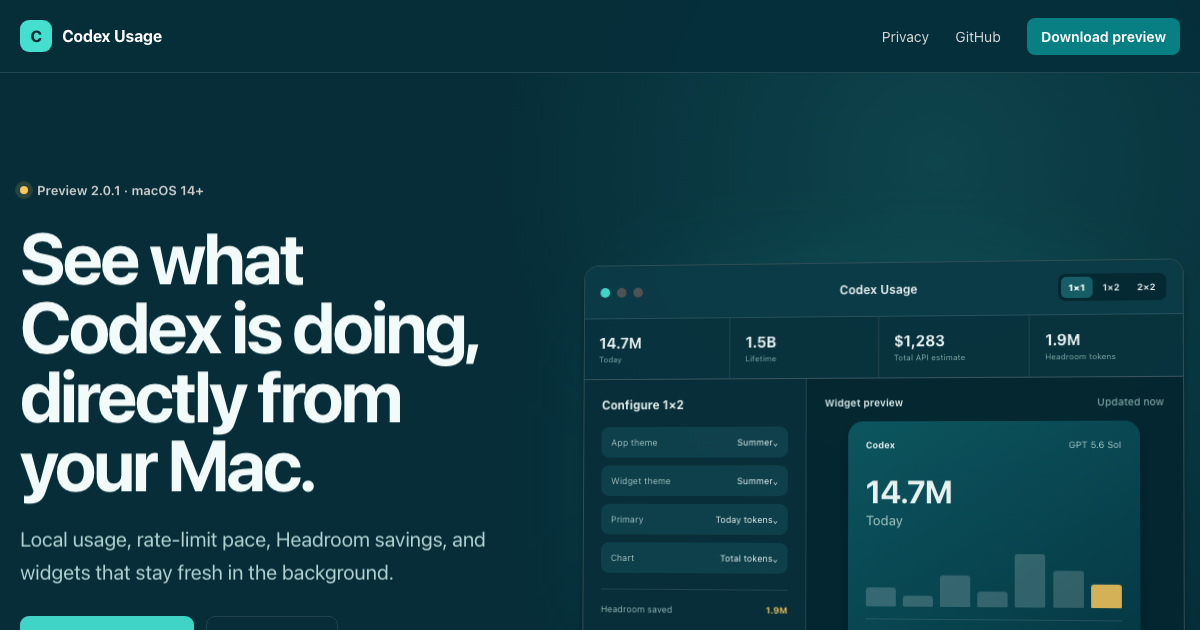
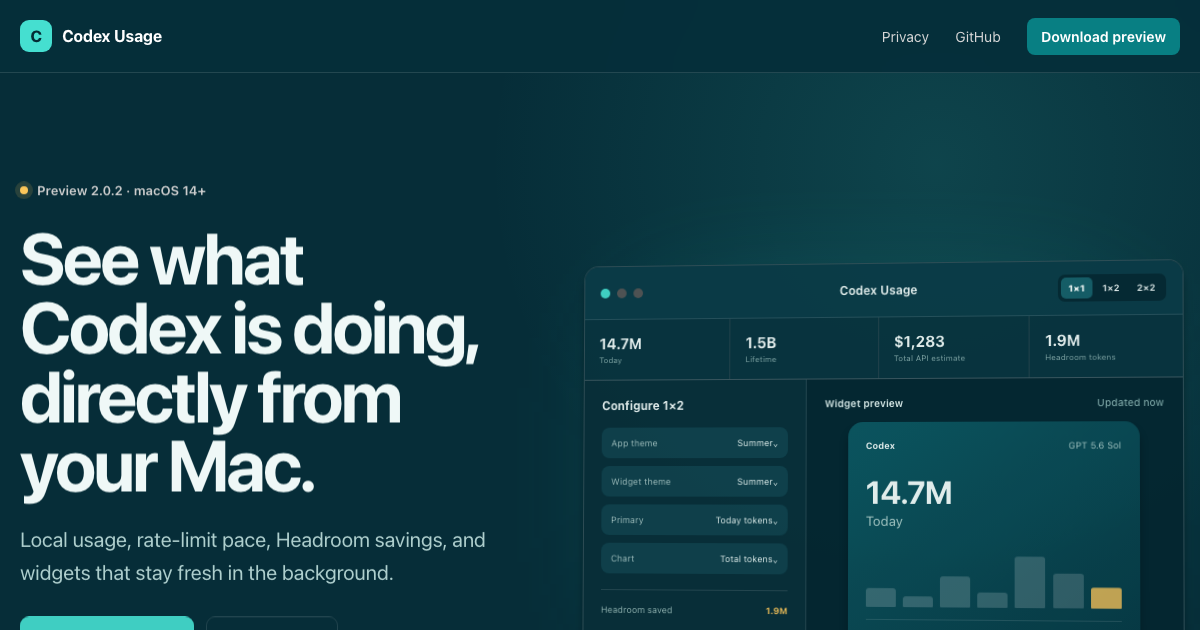
release: improve widget typography for 2.0.2

diff --git a/Shared/WidgetComponents.swift b/Shared/WidgetComponents.swift
@@ -1,5 +1,14 @@
 import SwiftUI
 
+enum WidgetTypeScale {
+    static let caption: CGFloat = 10
+    static let label: CGFloat = 11
+    static let body: CGFloat = 12
+    static let value: CGFloat = 14
+    static let heroCompact: CGFloat = 30
+    static let hero: CGFloat = 36
+}
+
 struct WidgetLabeledValue: Equatable, Sendable {
     var label: String
     var value: String
@@ -64,13 +73,17 @@ struct WidgetHero: View {
     var body: some View {
         VStack(alignment: .leading, spacing: compact ? 2 : 4) {
             Text(content.heroValue)
-                .font(.system(size: compact ? 24 : 31, weight: .semibold, design: .rounded))
+                .font(.system(
+                    size: compact ? WidgetTypeScale.heroCompact : WidgetTypeScale.hero,
+                    weight: .semibold,
+                    design: .rounded
+                ))
                 .monospacedDigit()
                 .foregroundStyle(palette.primary)
                 .lineLimit(1)
-                .minimumScaleFactor(0.55)
+                .minimumScaleFactor(0.7)
             Text(content.heroLabel)
-                .font(.system(size: compact ? 9 : 10, weight: .medium))
+                .font(.system(size: compact ? WidgetTypeScale.label : WidgetTypeScale.body, weight: .medium))
                 .foregroundStyle(palette.secondary)
                 .lineLimit(2)
         }
@@ -82,12 +95,20 @@ struct WidgetHero: View {
 struct WidgetFreshnessLabel: View {
     var freshness: WidgetFreshness
     var palette: WidgetStylePalette
+    var compact = false
 
     var body: some View {
-        Label(freshness.label, systemImage: freshness.symbol)
-            .font(.system(size: 8, weight: .semibold))
+        Group {
+            if compact {
+                Image(systemName: freshness.symbol)
+                    .accessibilityLabel(freshness.label)
+            } else {
+                Label(freshness.label, systemImage: freshness.symbol)
+                    .labelStyle(.titleAndIcon)
+            }
+        }
+            .font(.system(size: WidgetTypeScale.caption, weight: .semibold))
             .foregroundStyle(freshness == .fresh ? palette.accent : palette.secondary)
-            .labelStyle(.titleAndIcon)
     }
 }
 
@@ -129,7 +150,7 @@ struct WidgetGaugeRing: View {
                 .stroke(palette.accent, style: StrokeStyle(lineWidth: 7, lineCap: .round))
                 .rotationEffect(.degrees(-90))
             Text(progress, format: .percent.precision(.fractionLength(0)))
-                .font(.system(size: 12, weight: .bold, design: .rounded))
+                .font(.system(size: WidgetTypeScale.value, weight: .bold, design: .rounded))
                 .monospacedDigit()
         }
         .accessibilityElement()
@@ -151,12 +172,12 @@ struct WidgetValueGrid: View {
             ForEach(Array(values.enumerated()), id: \.offset) { _, item in
                 VStack(alignment: .leading, spacing: 1) {
                     Text(item.value)
-                        .font(.system(size: 12, weight: .semibold, design: .rounded))
+                        .font(.system(size: WidgetTypeScale.value, weight: .semibold, design: .rounded))
                         .monospacedDigit()
                         .lineLimit(1)
-                        .minimumScaleFactor(0.65)
+                        .minimumScaleFactor(0.75)
                     Text(item.label)
-                        .font(.system(size: 8, weight: .medium))
+                        .font(.system(size: WidgetTypeScale.caption, weight: .medium))
                         .foregroundStyle(palette.secondary)
                         .lineLimit(1)
                 }

diff --git a/Shared/WidgetFamilyViews.swift b/Shared/WidgetFamilyViews.swift
@@ -256,20 +256,20 @@ struct CodexWidgetFamilyView: View {
 private struct WidgetFamilyHeader: View {
     var content: WidgetSemanticContent
     var palette: WidgetStylePalette
+    var compact = false
 
     var body: some View {
         HStack(spacing: 5) {
             Image(systemName: "sun.horizon.fill")
-                .font(.system(size: 8, weight: .bold))
+                .font(.system(size: WidgetTypeScale.caption, weight: .bold))
                 .foregroundStyle(palette.accent)
                 .accessibilityHidden(true)
-            Text(content.eyebrow.uppercased())
-                .font(.system(size: 9, weight: .bold))
-                .tracking(0.5)
+            Text(content.eyebrow)
+                .font(.system(size: WidgetTypeScale.label, weight: .semibold))
                 .foregroundStyle(palette.secondary)
                 .lineLimit(1)
             Spacer(minLength: 4)
-            WidgetFreshnessLabel(freshness: content.freshness, palette: palette)
+            WidgetFreshnessLabel(freshness: content.freshness, palette: palette, compact: compact)
         }
     }
 }
@@ -281,7 +281,7 @@ private struct MetricFamilyLayout: View {
 
     var body: some View {
         VStack(alignment: .leading, spacing: size == .small ? 7 : 9) {
-            WidgetFamilyHeader(content: content, palette: palette)
+            WidgetFamilyHeader(content: content, palette: palette, compact: size == .small)
             if size == .medium {
                 HStack(alignment: .bottom, spacing: 14) {
                     WidgetHero(content: content, palette: palette, compact: true)
@@ -317,7 +317,7 @@ private struct LimitsFamilyView: View {
 
     var body: some View {
         VStack(alignment: .leading, spacing: 8) {
-            WidgetFamilyHeader(content: content, palette: palette)
+            WidgetFamilyHeader(content: content, palette: palette, compact: size == .small)
             HStack(spacing: 12) {
                 WidgetGaugeRing(progress: progress / 100, palette: palette)
                     .frame(width: size == .small ? 66 : 82, height: size == .small ? 66 : 82)

diff --git a/docs/index.html b/docs/index.html
@@ -35,7 +35,7 @@
   <main id="main">
     <section class="hero" id="top">
       <div class="hero-copy">
-        <p class="release-note"><span></span> Preview 2.0.1 · macOS 14+</p>
+        <p class="release-note"><span></span> Preview 2.0.2 · macOS 14+</p>
         <h1>See what Codex is doing, directly from your Mac.</h1>
         <p class="hero-detail">Local usage, rate-limit pace, Headroom savings, and widgets that stay fresh in the background.</p>
         <div class="hero-actions">

diff --git a/DISTRIBUTION.md b/DISTRIBUTION.md
@@ -2,7 +2,7 @@
 
 ## Current preview
 
-Version 2.0.1 is preview software. It is currently ad-hoc signed, not signed with
+Version 2.0.2 is preview software. It is currently ad-hoc signed, not signed with
 an Apple Developer ID, and not notarized by Apple. macOS may require Control-click,
 then **Open**. The DMG contains only the app and an Applications shortcut.
 
@@ -38,7 +38,7 @@ performed.
 Authenticate `gh`, then run:
 
 ```sh
-./scripts/publish_github_release.sh 2.0.1
+./scripts/publish_github_release.sh 2.0.2
 ```
 
 The script derives the version from the built app, generates and validates the

diff --git a/README.md b/README.md
@@ -48,6 +48,6 @@ Release packaging and GitHub publishing are documented in
 
 ## Version
 
-Current preview: **2.0.1**
+Current preview: **2.0.2**
 
 Codex Usage Monitor is independent software and is not affiliated with OpenAI.
